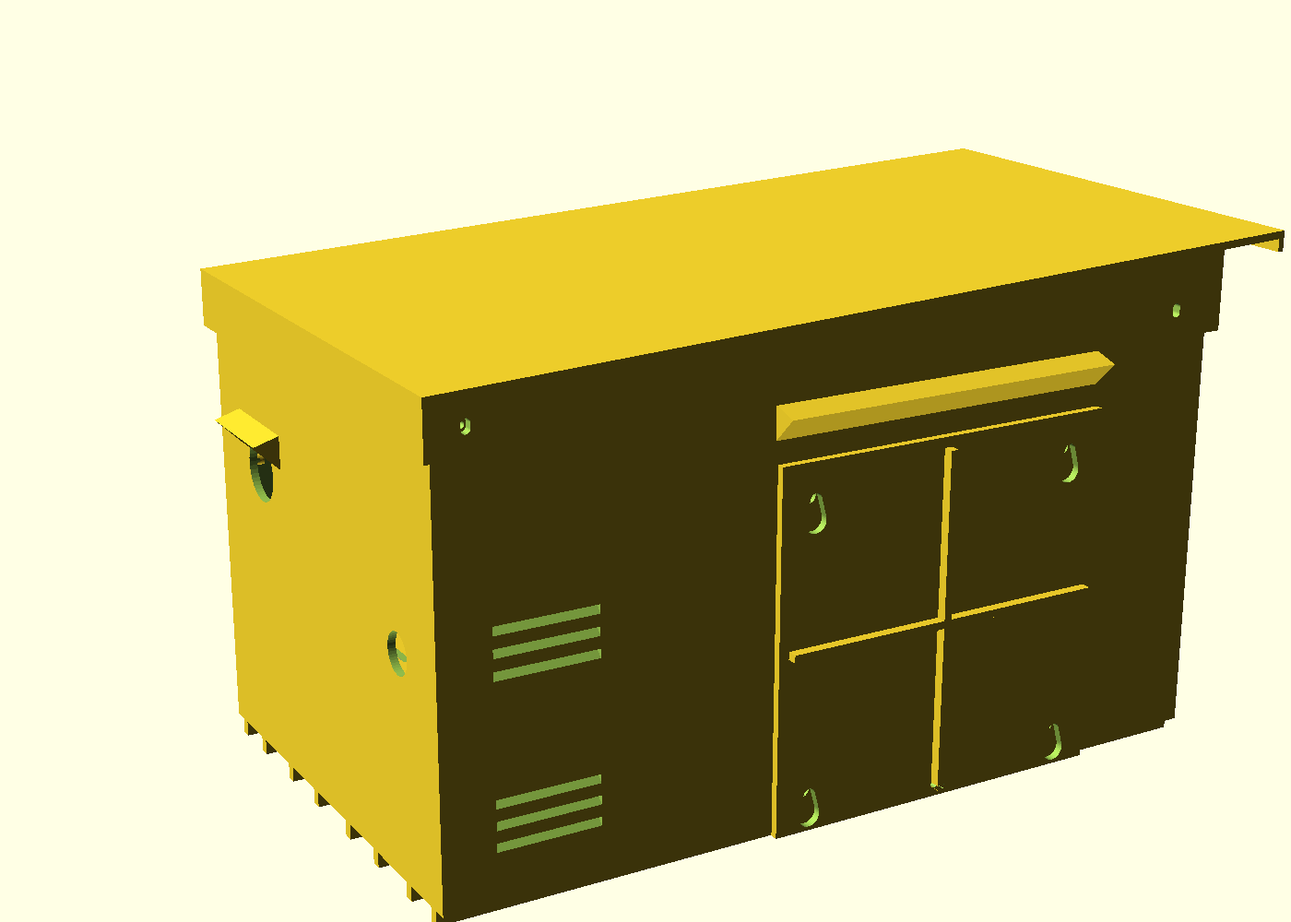
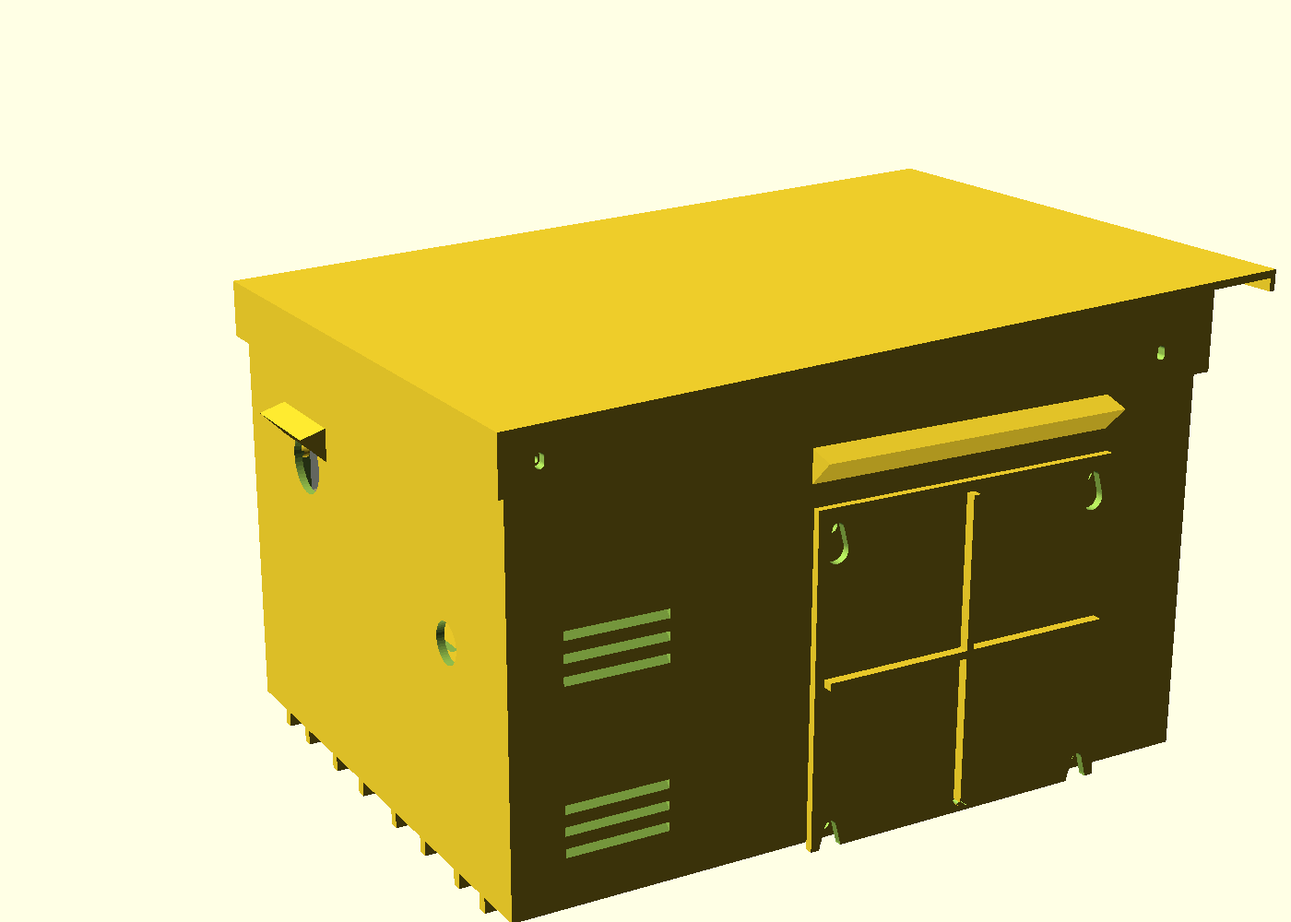
feat(case): size the case to the Tkisko TO2 and add a measurement worksheet
Projector is now 165 x 130 x 66 (depth measured, rest from the manual),
lens on the long face offset left, socket right of centre, throw 0.95.
The wider body misses the bed the old way round, so the front tiles print
end-on (231 x 207 base, 228 x 204 lid) and the lid seam moves to 200 mm
(lid_front_len). Front/rear gaps 30/34, hatch 108 mm centred 56 up so its
hood clears the lower lid skirt, front lid screw behind the window frame.
Pan gets its own limit (pan_max 10) because the short-throw cone clips the
window frame; combined corner is 8 (rear plugs reach the divider).

Label reads DC 21 V 3 A: docs switch the fans to 24 V parts and note the
stock brick covers the projector alone. Re-sliced times, re-rendered
previews. docs/measurements.xlsx is a fill-in worksheet with defaults,
manual specs, measured values and update flags.

Changed region(s): [[0.1536, 0.155, 1.0, 1.0], [0.2764, 0.682, 0.3071, 0.713]]

diff --git a/CLAUDE.md b/CLAUDE.md
@@ -4,9 +4,9 @@ Context for Claude Code. Read this first, then `docs/DESIGN_LOG.md` for why thin
 
 ## What this is
 
-A parametric OpenSCAD design (`projector_pi_case.scad`, currently v0.8) for an outdoor case that holds a mini projector plus a Raspberry Pi 3 running an AtmosFX Halloween effect. Owner: David (dwk), web engineer, comfortable with code, learning 3D design through real projects. Halloween is the deadline, so bias toward getting parts printed and iterated over perfecting the model on screen.
+A parametric OpenSCAD design (`projector_pi_case.scad`, currently v0.8) for an outdoor case that holds a mini projector plus a Raspberry Pi 3 running an AtmosFX Halloween effect. The projector is a Tkisko TO2: 165 x 130 x 66 mm, lens on the long face and offset to the left, short throw (about 0.95:1), DC 21 V 3 A input per its label. Owner: David (dwk), web engineer, comfortable with code, learning 3D design through real projects. Halloween is the deadline, so bias toward getting parts printed and iterated over perfecting the model on screen.
 
-**Status: design only. Nothing has been printed, fit-checked or wired.** Every dimension tied to the projector is an assumption (see "Unverified" below).
+**Status: design only. Nothing has been printed, fit-checked or wired.** The projector's depth is measured; its other dimensions come from the manual and photos (see "Unverified" below). `docs/measurements.xlsx` is the owner's fill-in worksheet (defaults, manual specs, measured, flag).
 
 ## Commands
 
@@ -36,9 +36,9 @@ Key derived values (in the `/* [Hidden] */` block): `z_floor` (floor top, = foot
 
 Modules: `base_all` (shell, feet, divider, lid screw blocks, sled interface, ledges, hoods, cuts), `cuts` (all subtractions, one place), `lid` (sloped roof with no holes, front visor, side screw slots and spacer rings, flat gasket land, seam rib), `lid_tile` (45 deg scarf split), `projector` (ghost, pan/tilt about `pivot`), `window_frame`, `pedestal` (bolt-down plate plus column with a 1/4-20 insert for the ball head), `hatch_cover` (keyhole cover), `power_shelf` (brick cradle, barrier, zip-tie slots), `hood`, `ledge`, `louvers`, `tile_cut`, `pi_sled(s)` (per-generation plate), `pi_stack(s)` (Pi + HAT envelope).
 
-Splitting: `base_seam = y_div + div_t + 0.01` (just behind the Pi divider). The rear tile has collars inside its side walls (`collar_t`, `collar_d`); 4x M3 screws go from the projector side through the divider into them (`seam_screw_z`), plus silicone on the faces. `lid_seam = yfl - visor_len + 230`, split by `lid_tile` along a 45 deg plane through the roof plus `seam_rib`, so the front tile laps over the rear and both print without supports. The lid seam sits over the projector, which is why it is not a butt joint.
+Splitting: `base_seam = y_div + div_t + 0.01` (just behind the Pi divider). The rear tile has collars inside its side walls (`collar_t`, `collar_d`); 4x M3 screws go from the projector side through the divider into them (`seam_screw_z`), plus silicone on the faces. `lid_seam = yfl - visor_len + lid_front_len` (200), split by `lid_tile` along a 45 deg plane through the roof plus `seam_rib`, so the front tile laps over the rear and both print without supports. The lid seam sits over the projector, which is why it is not a butt joint.
 
-Print orientation is baked into the `part` dispatch at the bottom (lid flipped roof-down and rotated by `lid_a`, hatch cover flipped ribs-up, window frame laid flat). Rotate `base_front` and `lid_front` 90 deg in the slicer so the long side runs along the 250 mm axis.
+Print orientation is baked into the `part` dispatch at the bottom (lid flipped roof-down and rotated by `lid_a`, hatch cover flipped ribs-up, window frame laid flat). The front tiles lie flat as exported: X (231 / 228 mm) runs along the bed's 250 mm axis and depth (207 / 204 mm) along the 210 mm axis. `base_front` has about 3 mm to spare, so `front_gap`, `rear_gap` and `proj_d` cannot grow without moving `base_seam`.
 
 ## Conventions to keep
 
@@ -55,11 +55,11 @@ Print orientation is baked into the `part` dispatch at the bottom (lid flipped r
 - Rain-proof, not sealed: a sealed box overheats the projector. Airflow: intake slots through the raised floor and 45 deg louvers; two 40 mm PWM fans on the right wall (`fans`: projector zone, and the Pi/brick zone above the shelf, fed through vents on the shelf's low-voltage side). The Pi runs fan curves from DS18B20 sensors and shuts the projector off on over-temperature. `fan_body()` is in the aim sweep and the `fans` clash check.
 - Visitor safety: cords routed off paths or under cord covers, plug joints in weatherproof boxes, optional hatch lock screw (`hatch_lock`), flame-retardant V-0 PETG recommended for the power shelf.
 - Ground-standing on 6 mm feet so the case drains underneath; drains exit into the gap under the floor. Also tripod-mountable: 3/8-16 (`tripod_y`, near the estimated centre of mass) and 1/4-20 (`tripod_y2`) inserts in a pad flush with the ribs. Move `tripod_y` once the real centre of mass is known.
-- Projector on a commercial mini ball head (1/4-20). The body clears +/-15 deg on one axis and +/-10 deg on both (`aim_max`, `aim_combo`); the light cone (`light_cone`, `throw_ratio` 1.4, `lens_offset`) clears the window, frame and visor at +/-12 deg tilt (`cone_tilt`), which is the real limit. Plugs on the projector's rear (`projector_ports`, `port_depth` 15 for right-angle plugs) size `rear_gap`. The window is a 4 x 5 in pane set as high as the base allows (`pane_top_clear`), with the lid's front skirt notched over it and a short visor/lip, because upward tilt is the main use. The low pivot swings the top corners about 20 mm, which sizes `front_gap` and `rear_gap`. Both at 15 deg would push `base_front` past 250 mm. Printed ball joints were rejected (creep under load). Mini heads are rated about 1.5 kg; the projector is about 0.72 kg.
+- Projector on a commercial mini ball head (1/4-20). The body clears +/-15 deg tilt (`aim_max`), +/-10 deg pan (`pan_max`: past this the light cone clips the window frame at the TO2's 0.95 throw ratio, and the case can be turned for more) and +/-8 deg on both (`aim_combo`: the rear plugs reach the divider past this); the light cone (`light_cone`, `throw_ratio` 0.95, `lens_offset`) clears the window, frame and visor at +/-12 deg tilt (`cone_tilt`), which is the real limit. The projector-zone fan body sits 14 mm proud of the right wall inside `side_air`, which is why the side gap cannot shrink. Plugs on the projector's rear (`projector_ports`, `port_depth` 15 for right-angle plugs) size `rear_gap`. The window is a 4 x 5 in pane set as high as the base allows (`pane_top_clear`), with the lid's front skirt notched over it and a short visor/lip, because upward tilt is the main use. The low pivot swings the top corners about 20 mm, which sizes `front_gap` and `rear_gap`. Both at 15 deg would push `base_front` past 250 mm. Printed ball joints were rejected (creep under load). Mini heads are rated about 1.5 kg; the projector is about 0.72 kg.
 - Lid: 4x M3 screws go sideways through the skirt (`lid_screw_ys`, `lid_screw_z`) into 45 deg-underside blocks in the base wall tops. The roof has no penetrations; the lid prints roof-down, so nothing can stand proud of the roof. Slots let the lid be pressed onto the gasket before tightening.
 - Theft and wind: four sealed stake tubes inside the corners (`stakes`, `stake_pts`) take tent stakes driven from inside; security screws on the lid keep them in. External tabs were ruled out because they push the front tile past the 210 mm bed axis.
-- Aiming is the main setup task, so the left wall has a tool-free hatch: cover hangs on four M4 button-head bolts through keyholes (narrow end up); lift `kh_drop`, pull off, aim, hang back. A 45 deg hood sheds rain, leaves room for the lift and must stay below the lid skirt (both checked).
-- One AC cord in through a gland above the shelf on the AC side, DC brick inside on the power shelf behind a barrier taller than the brick; fuses on both the AC input and the DC output; a wire splice feeds the projector barrel plug and a HiFiBerry Amp4 HAT, which powers the Pi (no buck converter).
+- Aiming is the main setup task, so the left wall has a tool-free hatch: cover hangs on four M4 button-head bolts through keyholes (narrow end up); lift `kh_drop`, pull off, aim, hang back. The diamond is 108 mm (`hatch`) centred 56 mm above the floor (`hatch_zc`): its lower tip sits just above the floor and its hood just under the lid skirt. A 45 deg hood sheds rain, leaves room for the lift and must stay below the lid skirt (both checked).
+- One AC cord in through a gland above the shelf on the AC side, DC brick inside on the power shelf behind a barrier taller than the brick; fuses on both the AC input and the DC output; a wire splice feeds the projector barrel plug and a HiFiBerry Amp4 HAT, which powers the Pi (no buck converter). The TO2's label reads DC 21 V 3 A, so the rail is 21 V: the Amp4 takes 12-24 V, but the fans must be 24 V parts.
 - Pi sleds: the base has a fixed interface (four pads `sled_pts`, two locating pins, one M3 insert). Each sled carries one generation's hole pattern. Every board sits with its GPIO edge at `y_gpio`, so the Amp4 lands in the same place; the Zero 2 W sled adds two tall posts for the overhanging HAT. Heights come from `sled_stack(s)` and an assert keeps `shelf_z` above the tallest; `check_clash.sh` checks every sled and stack. Pads lift the sled so floor water reaches the drains.
 - DMX is first class: E1.31/sACN receive over the network (no wired DMX, no new holes). DMX overrides Matter/web/schedule while a source is live, then hands back after a timeout.
 - Projector power: HDMI-CEC first; fallback is a relay on the projector's + DC line (never switch its ground: HDMI would carry the return) plus an IR LED in `ir_holder` sending the remote's power code. The relay forces a known off state, so the IR toggle stays in step.
@@ -69,12 +69,12 @@ Print orientation is baked into the `part` dispatch at the bottom (lid flipped r
 
 ## Unverified / assumptions (fix these first)
 
-1. Projector size: defaults 135 x 172 x 76 mm come from typical listings of this projector class, not the owner unit. Lens height and left/right offset, 1/4-20 socket position and vent locations are guesses (`lens_x`, `lens_z`, `mount_x`, `mount_y`, louver/fan positions).
+1. Projector: 165 x 130 x 66 mm. Depth is measured (calipers); width and height are the manual's 6.5 x 2.6 in. Lens height and offset (`lens_z` 33, `lens_x` -20) and the 1/4-20 socket position (`mount_x` 19, `mount_y` -4) are scaled off photos. Vent and port locations are unknown (louver/fan positions, `port_band`, `port_depth`).
 2. Projector power control is HDMI-CEC from the Pi (fallback: HDMI output off). Whether the owner's projector supports CEC is unknown.
 3. Centre of mass for the tripod insert: estimated about 12 mm behind the footprint centre from guessed weights (case 1.5 kg, projector 0.72 kg, brick 0.4 kg).
-4. DC brick: assumed 100 x 50 x 32 mm and 12 V. Owner must read the label (volts, amps, polarity) before wiring.
+4. DC brick: assumed 100 x 50 x 32 mm. The projector label reads DC 21 V 3 A; confirm that reading and the polarity before wiring, and note the stock brick covers the projector alone.
 5. PIR dome diameter and hole spacing (`pir_dome_d` 23.5, `pir_hole_sp` 28.7) and which GPIO the Amp4 leaves free. Stack heights per sled (`pi_stack_h` 40, `pi5_stack_h` 50 with Active Cooler, `zero_stack_h` 30, `zero_hat_z` 13 are guesses), Amp4 support and power on Pi 5 and Zero 2 W, and whether the brick can supply projector + Pi + amp together.
-6. Ball head height (`ball_head_h` = 40) and the aim range depend on the head actually bought. Throw ratio (1.4), lens offset (0), lens height, and where the projector's HDMI/power ports are (`port_band`, assumed on the rear face with right-angle plugs) are all guesses.
+6. Ball head height (`ball_head_h` = 40) and the aim range depend on the head actually bought. Throw ratio (0.95, derived from the manual's image sizes), lens offset (0), lens height, and where the projector's HDMI/power ports are (`port_band`, assumed on the rear face with right-angle plugs) are all unmeasured.
 7. Fit of hatch keyholes, acrylic rebate (sized for a 4 x 5 in, 1/8 in pane; `pane_w`/`pane_h` drive the window), heat-set insert holes (`insert_d` 8.2 for 1/4-20, `m4_insert_d` 5.6) is untested.
 8. Base seam collars and screws, the lid scarf joint and the gasket land are unprinted.
 9. Pi software lives in `pi/` (Matter switch, mpv player, scares, schedule, web UI, audio to the Amp4); untested on hardware. Device-facing names use `VideoFX-XXXX` (hostname `videofx-xxxx`, last 4 of the MAC; system paths and units `videofx`), not the AtmosFX trademark.
@@ -83,7 +83,7 @@ Print orientation is baked into the `part` dispatch at the bottom (lid flipped r
 
 Work through `docs/BRINGUP.md` in order:
 1. Print `fit_coupon`; tune insert/pilot/keyhole/pane tolerances.
-2. Owner measures the projector (size, lens, throw ratio, offset, ports), brick and ball head; update parameters; rerun `scripts/check_clash.sh` (body, plugs and light cone) and `make parts`; re-slice for PRINTING.md.
+2. Owner fills in `docs/measurements.xlsx` (width, lens, socket, ports, throw ratio, offset, brick, ball head); update the flagged parameters; rerun `scripts/check_clash.sh` (body, plugs and light cone) and `make parts`; re-slice for PRINTING.md.
 3. Bench-test the Pi image (CEC, seam time, Amp4 power, PIR, sensors, Matter, DMX, update/rollback, power cut).
 4. Print the rest, assemble per `docs/ASSEMBLY.md`, wire per `docs/WIRING.md`, then heat, rain and night tests.
 5. Later: multi-projector sync (deferred), tune fan/louver positions against the real projector vents.

diff --git a/docs/DESIGN_LOG.md b/docs/DESIGN_LOG.md
@@ -21,6 +21,7 @@ Chronological record of decisions, including dead ends, so the reasoning survive
 | v0.6 | Low-voltage DC variant: brick outside, buck converter for the Pi, zip-tie shelf | Owner: projector has a DC brick that can feed both |
 | v0.7 | Brick inside on the shelf: cradle, barrier, cord notch, heat louvers above the shelf | Owner: brick should be inside |
 | v0.8 | Gland above the shelf; barrier 40 mm; keyholes flipped; hatch 8 mm lower and hood raised for the lift; lid scarf joint, seam rib, gasket land; front/rear gaps 30/26 | Review: mains ran through the Pi zone, cover would fall off, lid seam leaks onto the projector, aim range did not fit |
+| v0.9 (unreleased) | Sized to the Tkisko TO2 (165 x 130 x 66, lens on the long face offset left, 0.95 throw, socket right of centre); front/rear gaps 30/34; hatch 108 mm centred 56 up; lid seam at 200 (`lid_front_len`); front tiles print end-on; `pan_max` 10 and `aim_combo` 8 split from `aim_max`; front lid screw moved behind the window frame; 21 V rail, 24 V fans | Manual, product photos and a caliper measurement: the wider body missed the bed the old way round, the short throw clips the window at 15 deg pan, the shorter body dropped the lid skirt onto the hatch hood |
 
 ## Decisions and dead ends
 
@@ -55,6 +56,8 @@ Chronological record of decisions, including dead ends, so the reasoning survive
 - **Third review.** One version for the repo (the Pi package said 0.1.0 under tag v0.8.0, which would confuse `videofx-update`). The tripod insert moved from y 12 to 5 after computing the centre of mass from part centroids and slicer weights (about 2.6 kg in all). Added an optional hatch lock screw into the solid wall/floor corner, V-0 filament for the power shelf, cord routing for trick-or-treaters, an ordering plan with rough costs, and a bring-up checklist. Colima (open-source Docker) runs the pi-gen image build on the Mac.
 - **Clash script.** The OpenSCAD snapshot uses the manifold backend, which never prints "Volumes: 1", so zero-volume contact (the shelf on its ledges) read as a clash. The script now measures intersection volume. It also used to report CLASH when OpenSCAD failed to run.
 - **Bugs hit:** shell `brace expansion` failing under sh (use bash), top-level variable used before definition (`lid_seam`/`yfl`), phony `make stl` clashing with the `stl/` directory (target is `parts`), tiny preview renders from `--viewall`.
+
+- **Tkisko TO2 fit (v0.9).** The owner's projector is 165 wide with the lens on the long face, not 135 wide on the short face. With the 25 mm side gaps the base is 221 wide (231 with the hatch hood), past the 210 mm bed axis the old way round. Shrinking the side gap failed: the projector-zone fan body stands 14 mm proud of the right wall inside that gap, so even zero pan needs 15 mm, and the hatch hood takes another 10. The body is also 42 mm shorter, which brings the front base tile under 210 mm, so the front tiles now print end-on (X along the 250 mm axis) and the lid seam moved from 230 to 200 mm from the visor tip so `lid_front` fits the same way. The short throw (0.95 from the manual's image sizes) widens the light cone: it clips the window frame past 10 deg pan, so pan got its own limit (`pan_max`), with tilt still 15 and the combined corner 8 (the rear plugs reach the divider past that now the pivot sits 19 mm right of centre). Losing 10 mm of body height dropped the lid skirt onto the hatch hood; the diamond cannot go lower (its tip is 2 mm above the floor), so it shrank from 120 to 108 mm. The off-centre window frame overlapped the front lid-screw block by 0.35 mm, so that station moved 2 mm back. The label reads DC 21 V 3 A: the Amp4 is fine on 21 V, the fans must be 24 V parts, and the stock brick has no headroom for the Pi and amp.
 
 ## References
 

diff --git a/docs/PRINTING.md b/docs/PRINTING.md
@@ -1,13 +1,13 @@
 # Printing plan
 
-Two Prusa i3 MK3S (bed 250 x 210 x 210 mm), Prusament PETG (or ASA, which fades less in sun). Times and weights are PrusaSlicer's estimates from the v0.8 STLs with the stock `Original Prusa i3 MK3S & MK3S+` printer profile. Real prints run a little longer.
+Two Prusa i3 MK3S (bed 250 x 210 x 210 mm), Prusament PETG (or ASA, which fades less in sun). Times and weights are PrusaSlicer's estimates from the current (v0.9 draft) STLs with the stock `Original Prusa i3 MK3S & MK3S+` printer profile. Real prints run a little longer.
 
 ## Settings
 
 - Print profile **0.20mm SPEED @MK3** for everything. The window's snap-out ribs leave a gap of one layer (`layer_h` = 0.2 in the model). If you print the base at another layer height, set `layer_h` to match and re-export.
 - **No supports** anywhere: every part is designed support-free.
 - Print `power_shelf` in flame-retardant PETG (UL 94 V-0, e.g. Prusament PETG V0, which has a stock profile), and `base_rear` too if you can live with its colour: mains and the brick live on the shelf in the rear compartment.
-- Rotate `base_front` and `lid_front` 90 deg so the long side runs along the 250 mm axis. `base_front` is 243 x 201 mm, so turn off the skirt or keep it tight to the part.
+- The front tiles lie flat as exported: `base_front` is 231 x 207 mm and `lid_front` 228 x 204 mm, wide side along the bed's 250 mm axis. 207 mm on the 210 mm axis leaves no room for a skirt: turn it off or keep it tight to the part.
 - The STLs are already in print orientation (lid roof-down, hatch cover ribs-up, window frame flat, caps plate-down).
 
 ## Parts
@@ -17,21 +17,21 @@ Two Prusa i3 MK3S (bed 250 x 210 x 210 mm), Prusament PETG (or ASA, which fades 
 | `fit_coupon` | 1 | 1 h 28 m | 16 g | **Print first.** Test inserts, pilots, the keyhole on an M4 bolt, the acrylic in its slot |
 | `pedestal` | 1 | 1 h 42 m | 29 g | |
 | `window_frame` | 1 | 1 h 25 m | 22 g | |
-| `hatch_cover` | 1 | 2 h 59 m | 54 g | |
+| `hatch_cover` | 1 | 2 h 33 m | 46 g | |
 | `sled_pi3` / `pi4` / `pi5` / `zero2w` | 1 | 1 h 8 m to 1 h 20 m | 18-19 g | The one for your Pi |
 | `vent_cap` | 3 | 13 m each | 2 g each | |
 | `intake_cap` | 1 | 21 m | 4 g | |
 | `ir_holder` | 0-1 | 15 m | 2 g | Only for the relay + IR fallback |
-| `power_shelf` | 1 | 3 h 15 m | 44 g | |
-| `lid_rear` | 1 | 5 h 53 m | 98 g | |
-| `lid_front` | 1 | 9 h 47 m | 169 g | |
-| `base_rear` | 1 | 16 h 28 m | 227 g | 11 h 19 m with 0.30mm DRAFT |
-| `base_front` | 1 | **37 h 22 m** | 562 g | 27 h 4 m with 0.30mm DRAFT (set `layer_h = 0.3`) |
+| `power_shelf` | 1 | 3 h 33 m | 50 g | |
+| `lid_rear` | 1 | 6 h 19 m | 106 g | |
+| `lid_front` | 1 | 9 h 46 m | 169 g | |
+| `base_rear` | 1 | 17 h 3 m | 238 g | 11 h 54 m with 0.30mm DRAFT |
+| `base_front` | 1 | **35 h 21 m** | 534 g | 25 h 23 m with 0.30mm DRAFT (set `layer_h = 0.3`) |
 | **Total** | | **about 82 h** | **about 1.25 kg** | Two 1 kg spools |
 
 ## Order, on two printers
 
-The small parts first, so any fit problem shows up before a 37-hour print.
+The small parts first, so any fit problem shows up before a 35-hour print.
 
 | Day | Printer A | Printer B |
 |---|---|---|

diff --git a/docs/BRINGUP.md b/docs/BRINGUP.md
@@ -7,9 +7,9 @@ Everything below has only been tested in software. Work through it on the bench 
 | # | Test | Pass | If not |
 |---|---|---|---|
 | 1 | `fit_coupon`: heat-set inserts (3/8, 1/4, M4, M3), screws in the M3/M2.5/M2 pilots, M4 bolt in the keyhole, acrylic in the slot | Each fits snug, with no cracking and no slop | Adjust `insert38_d`, `insert_d`, `m4_insert_d`, `m3_insert_d`, `clearance`, re-export |
-| 2 | Measure the projector: size, lens height and left/right offset, tripod socket position, vents, **where the HDMI and power ports are** | Within a few mm of `proj_w/d/h`, `lens_z`, `lens_x`, `mount_x/y`, `port_band` | Update the parameters, run `scripts/check_clash.sh` |
+| 2 | Measure the projector into `docs/measurements.xlsx`: width and height (depth is done: 130.0), lens height and left/right offset, tripod socket position, vents, **where the HDMI and power ports are** | Within a few mm of `proj_w/d/h`, `lens_z`, `lens_x`, `mount_x/y`, `port_band` | Update the flagged parameters, run `scripts/check_clash.sh` |
 | 3 | Throw ratio and offset: project onto a wall from a measured distance, and measure image width and how far the bottom edge sits above the lens | Throw ratio about 1.4, offset recorded | Set `throw_ratio`, `lens_offset`; check the `light-cone` result |
-| 4 | Brick label: volts, amps, polarity, input current, inlet type (C7/C5/C13) | 12-24 V and enough amps for projector + Amp4 + fans | Bigger brick; fill in the fuse table in WIRING.md |
+| 4 | Brick label: volts, amps, polarity, input current, inlet type (C7/C5/C13). The projector's label reads DC 21 V 3 A | 12-24 V and enough amps for projector + Amp4 + fans (the stock 3 A brick covers the projector alone) | 21 V brick of 5 A or more; fill in the fuse table in WIRING.md |
 | 5 | Ball head height and where the lock knob sits | Knob reachable through the hatch diamond | Change `ball_head_h`; move the hatch (`hatch_zc`) |
 
 ## Pi on the bench (before it goes in the case)

diff --git a/docs/WIRING.md b/docs/WIRING.md
@@ -23,7 +23,7 @@ flowchart LR
     RELAY["Relay (fallback only)<br/>switches + line"]
     PROJ["Projector barrel plug"]
     AMP["HiFiBerry Amp4<br/>12-24 V in, powers Pi"]
-    FANS["2x 12 V PWM fans"]
+    FANS["2x 24 V PWM fans"]
   end
   subgraph PI["Pi sled (below shelf)"]
     RPI["Raspberry Pi"]
@@ -65,7 +65,7 @@ Right of the barrier, and down to the Pi sled.
 | Brick DC out to main fuse and splice | 18 AWG (0.75 mm²) | Check the brick's plug polarity (centre + is common, not universal) before cutting |
 | Splice to projector | 18 AWG | Keep the projector's own barrel plug; splice into its cable |
 | Splice to Amp4 power input | 20 AWG (0.5 mm²) | Amp4 accepts 12-24 V; it powers the Pi, so don't also power the Pi by USB |
-| Splice to fans | 24 AWG | 12 V fans; PWM and tach go to the Pi |
+| Splice to fans | 24 AWG | 24 V fans on the 21 V rail (12 V fans would burn); PWM and tach go to the Pi |
 | Relay (fallback only) | 18 AWG | Switch the **+** line to the projector. Never switch its ground: the HDMI cable would carry the return current. Use an **active-low** module: the Pi holds GPIO 27 high (relay open, projector off) from boot |
 | Amp4 to speakers | 16 AWG zip cord | Out through the floor chimney; red/striped to + on both ends |
 
@@ -77,7 +77,7 @@ Trick-or-treaters walk through the yard in the dark. Run the power cord and spea
 
 ## Fuse sizing
 
-Fill this in from **your** labels. The example column assumes a 12 V 5 A brick, a projector drawing 3 A and a 60 W-class brick input.
+Fill this in from **your** labels. The TO2's label reads DC 21 V 3 A (confirm it with a meter), and its stock brick is rated for the projector alone: feeding the Amp4, Pi and fans too needs a 21 V brick of 5 A or more. The example column assumes a 21 V 5 A brick, the projector drawing 3 A and a 110 W-class brick input.
 
 | Fuse | How to size it | Type | Example |
 |---|---|---|---|

diff --git a/docs/AIMING.md b/docs/AIMING.md
@@ -14,11 +14,11 @@ The projector sits on a ball head inside the case. You reach it through the aim 
 
 | Movement | Inside the case |
 |---|---|
-| Pan (left/right) only | +/-15 deg |
+| Pan (left/right) only | +/-10 deg (beyond this the image clips the window frame; turn the case instead) |
 | Tilt (up/down) only | +/-12 deg (the image starts clipping on the window or visor beyond this) |
-| Pan and tilt together | +/-10 deg each |
+| Pan and tilt together | +/-8 deg each |
 
-These assume a typical 1.4:1 projector with the image centred on the lens. Many mini projectors throw the image upward ("offset"); those clear about +10 to -18 deg of tilt, but their image already points about 11 deg up at 0 deg.
+These assume the Tkisko TO2's short throw (about 0.95:1, derived from its manual) with the image centred on the lens. Measure both (`throw_ratio`, `lens_offset`) and rerun the light-cone check: a shorter throw means a wider cone and less pan, and a projector that throws the image upward ("offset") trades downward tilt for upward.
 
 Past that, the projector hits the window frame or the Pi divider. Get the case close first and use the ball head for fine adjustment.
 

diff --git a/README.md b/README.md
@@ -46,9 +46,9 @@ Preview in OpenSCAD: open `projector_pi_case.scad`, set `part` and `tile` in the
 
 | File | Notes |
 |---|---|
-| `base_front` | Rotate 90 deg so the 241 mm side runs along the 250 mm bed axis |
+| `base_front` | 231 x 207 mm: lies flat as exported, wide side along the 250 mm bed axis; no skirt |
 | `base_rear` | Pi compartment. Joins `base_front` with 4x M3 x 12 screws through the divider into its collars; silicone the joint faces |
-| `lid_front`, `lid_rear` | Already flipped roof-down; rotate `lid_front` 90 deg. Seal the scarf joint with silicone |
+| `lid_front`, `lid_rear` | Already flipped roof-down; `lid_front` (228 x 204 mm) lies flat as exported. Seal the scarf joint with silicone |
 | `window_frame` | Holds the acrylic pane |
 | `pedestal` | Screws to the floor bosses; carries the ball head |
 | `hatch_cover` | Print ribs-up |

diff --git a/docs/BOM.md b/docs/BOM.md
@@ -35,7 +35,7 @@ Quantities for one case. Printed parts and filament are in [PRINTING.md](PRINTIN
 
 | Item | Qty | Notes |
 |---|---|---|
-| 40 x 40 x 10 mm 12 V 4-pin PWM fan (e.g. Noctua NF-A4x10 PWM) | 2 | Check its datasheet accepts 3.3 V PWM |
+| 40 x 40 x 10 mm 24 V 4-pin PWM fan (e.g. Noctua NF-A4x10 24V PWM) | 2 | Runs on the 21 V rail; a 12 V fan would burn. Check its datasheet accepts 3.3 V PWM |
 | DS18B20 temperature sensor + 4.7 kohm resistor | 2 + 1 | One per zone, one pull-up |
 | HC-SR501 PIR motion sensor | 1 | |
 | Relay module, 5 V coil, opto-isolated, active-low | 0-1 | Only if the projector lacks CEC |
